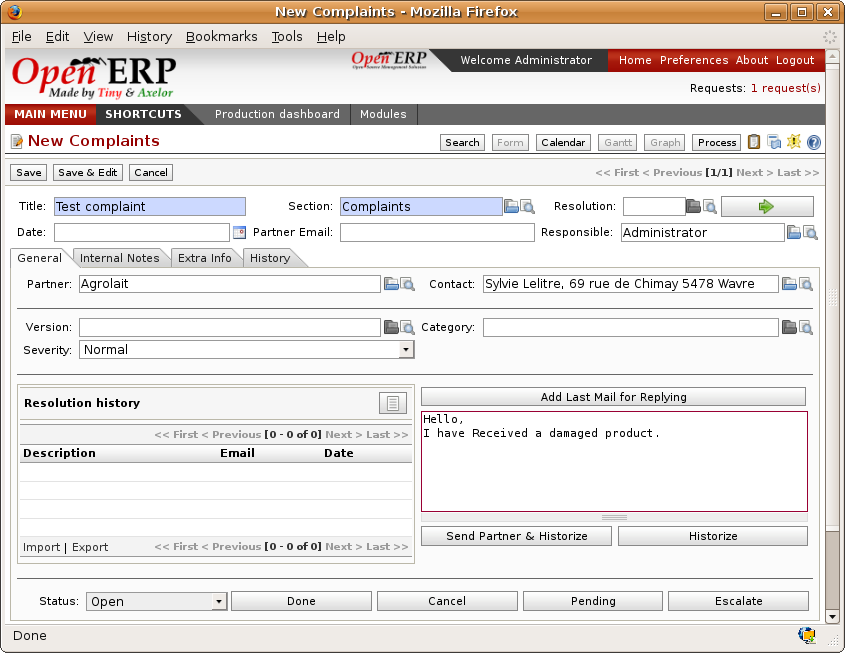
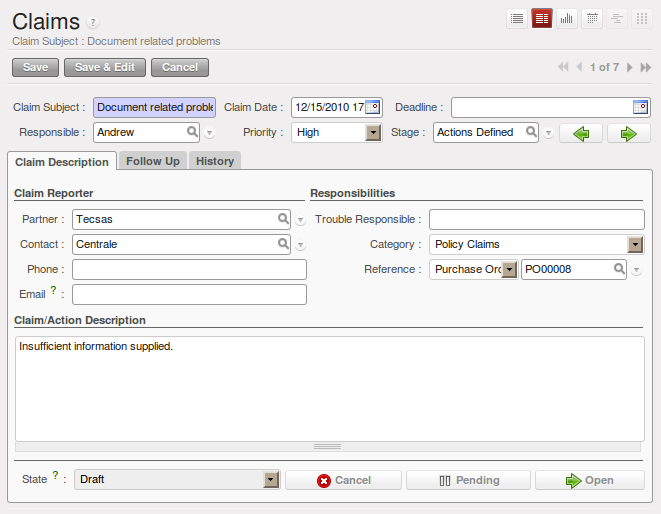
[IMP]: Manage your Business > Driving your Purchases > Supplier relationship management AND Analytic accounts

diff --git a/6/6_17_Purchases/6_17_Purchases_srm.rst b/6/6_17_Purchases/6_17_Purchases_srm.rst
@@ -6,11 +6,12 @@ Supplier relationship management
    single: module; crm_configuration
    single: module; crm
 
-To manage supplier relations, you should install the :mod:`crm_configuration` module. You will then be
+To manage supplier relations, you should install the :mod:`crm_claim` module. You will then be
 able to manage supplier complaints and integrate them with your emails and document management.
 
-Once you've installed the :mod:`crm` module, check the checkbox by the :guilabel:`Complaints` option
-during configuration. Open ERP will then create a menu in your working database for managing supplier complaints.
+To do that, use the :guilabel:`Reconfigure` wizard. Ensure :guilabel:`Customer Relationship Management` is installed.
+Once you have installed the :mod:`crm` module, check the checkbox by the :guilabel:`Claims` option
+during configuration. OpenERP will then create a menu in your working database for managing supplier complaints.
 
 .. figure:: images/crm_config.png
    :scale: 75
@@ -18,8 +19,8 @@ during configuration. Open ERP will then create a menu in your working database 
 
    *Selection of the management of complaints in the CRM installation*
 
-Once the module is installed you can use the menu :menuselection:`CRM & SRM --> After Sales Service
---> Complaints --> New Supplier Complaint`.
+Once the module is installed you can use the menu :menuselection:`Sales --> After-Sales Services
+--> Claims`.
 
 .. figure:: images/crm_complaints.png
    :scale: 75
@@ -27,7 +28,8 @@ Once the module is installed you can use the menu :menuselection:`CRM & SRM --> 
 
    *Data entry screen for a supplier complaint*
 
-The CRM module has many reports predefined. You can analyse:
+The CRM module has many reports predefined. Through the menu :menuselection:`Sales --> Reporting
+--> Claims Analysis` you can analyse:
 
 * the number and the severity of the complaints by supplier or user,
 

diff --git a/6/6_17_Purchases/6_17_Purchases_analytic.rst b/6/6_17_Purchases/6_17_Purchases_analytic.rst
@@ -5,15 +5,15 @@ Analytic accounts
 To manage purchases by project you should use the analytic accounts. 
 You can set an analytic account on each line of a supplier order. 
 The analytic costs linked to this purchase will be managed
-by Open ERP from the goods receipt and confirmation of the supplier invoice.
+by OpenERP from the goods receipt and confirmation of the supplier invoice.
 
 .. index::
    single: module; hr_timesheet_invoice
 
-The :mod:`hr_timesheet_invoice` module lets you reinvoice the analytic costs automatically using
+The :mod:`hr_timesheet_invoice` module lets you re-invoice the analytic costs automatically using
 parameters in the analytic accounts such as sale pricelist, associated partner company, and maximum amount.
 
-So you can put an invoice order with a defined invoice workflow in place based on the analytic accounts. If you're
+So you can put an invoice order with a defined invoice workflow in place based on the analytic accounts. If you are
 working ``Make to Order``, the workflow will be:
 
 #. Customer Order,
@@ -24,7 +24,7 @@ working ``Make to Order``, the workflow will be:
 
 #. Delivery and invoicing to the customer.
 
-When re-invoicing based on costs you'd get the following workflow:
+When re-invoicing based on costs you would get the following workflow:
 
 #. Enter the customer contract conditions from the analytic accounts,
 
